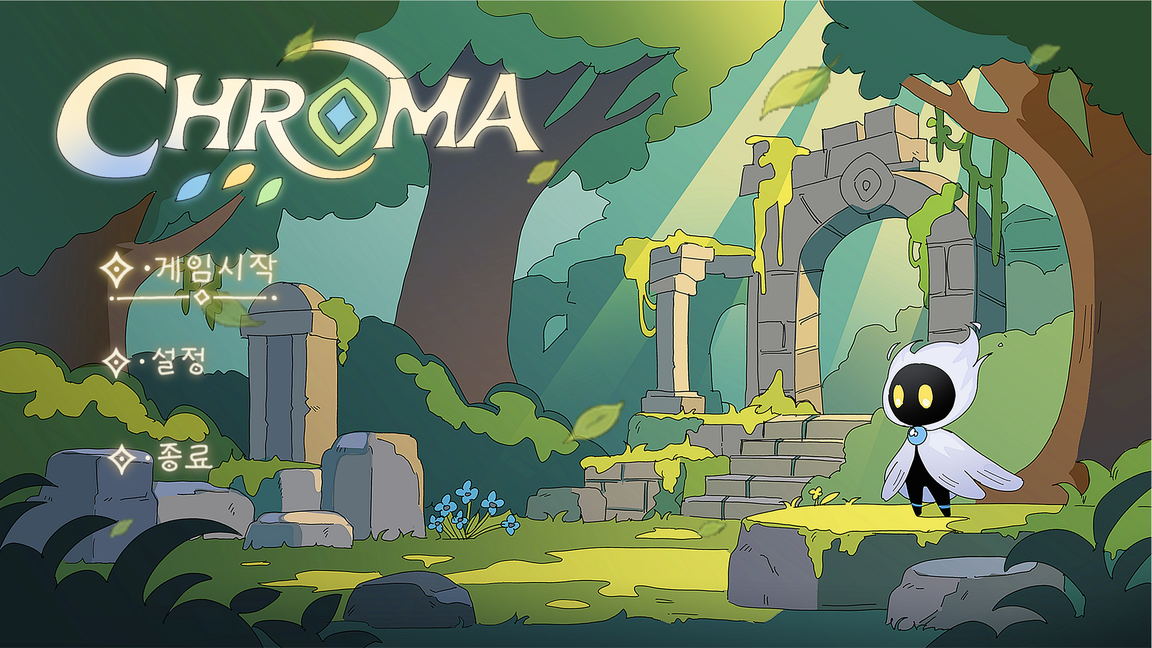
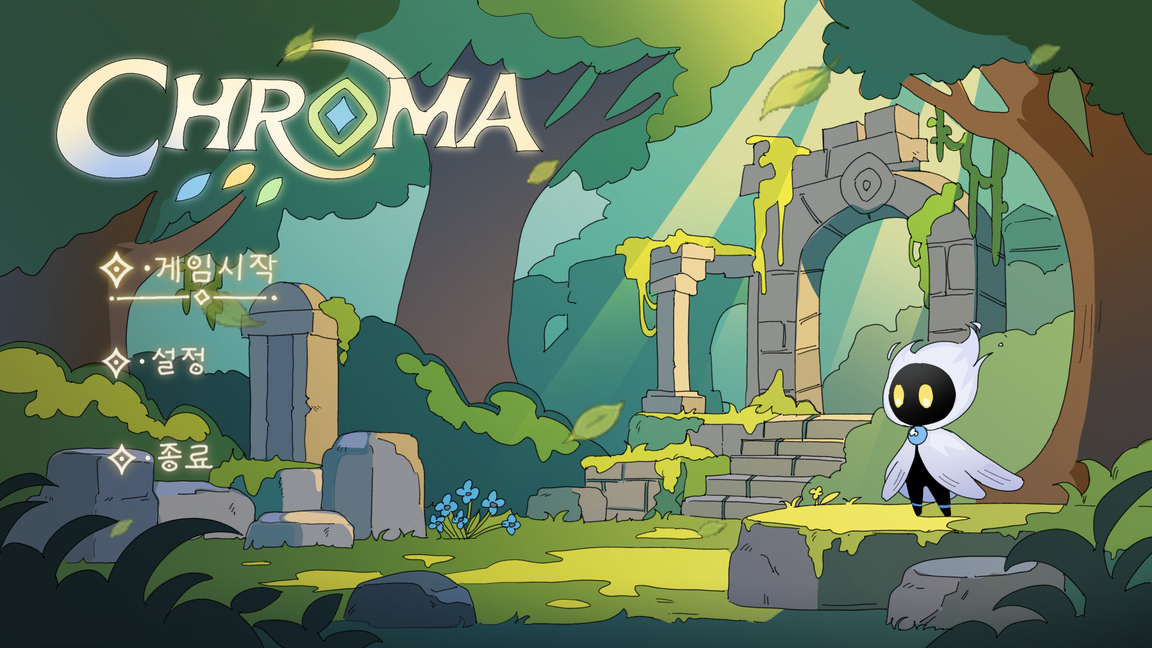
타이틀 나뭇잎 고해상도 추출과 가장자리 필터 및 프레임 여백 개선

diff --git a/tools/prepare_leaves.py b/tools/prepare_leaves.py
@@ -1,27 +1,38 @@
-"""Convert the supplied transparent leaf GIF to a title sprite sheet."""
+"""Antialias the supplied GIF into a padded, high-resolution title atlas."""
 import json
 from pathlib import Path
 from PIL import Image
 
 ROOT = Path(__file__).resolve().parent.parent
+FRAME_SIZE = (2304, 1296)
+COLUMNS = 3
+PADDING = 4
 
 
 def main():
     source = ROOT / 'image/ui/작은 잎사귀의 산들바람 애니메이션.gif'
     gif = Image.open(source)
-    width, height = gif.size
-    sheet = Image.new('RGBA', (width * gif.n_frames, height))
+    source_width, source_height = gif.size
+    width, height = FRAME_SIZE
+    stride_x, stride_y = width + 2 * PADDING, height + 2 * PADDING
+    rows = (gif.n_frames + COLUMNS - 1) // COLUMNS
+    sheet = Image.new('RGBA', (stride_x * COLUMNS, stride_y * rows))
     durations = []
     for index in range(gif.n_frames):
         gif.seek(index)
-        frame = gif.convert('RGBA')
-        sheet.paste(frame, (index * width, 0))
+        # Pillow resamples RGBA in premultiplied-alpha space, avoiding colored
+        # fringes at transparent leaf edges. Keep the original shapes and timing.
+        frame = gif.convert('RGBA').resize(FRAME_SIZE, Image.Resampling.LANCZOS)
+        column, row = index % COLUMNS, index // COLUMNS
+        sheet.paste(frame, (column * stride_x + PADDING, row * stride_y + PADDING))
         durations.append(gif.info.get('duration', 160) / 1000)
     folder = ROOT / 'image/background/leaves'
     folder.mkdir(exist_ok=True)
     sheet.save(folder / 'leaves.png')
     (folder / 'leaves.json').write_text(json.dumps(
-        {'width': width, 'height': height, 'durations': durations}), encoding='utf-8')
+        {'width': width, 'height': height, 'columns': COLUMNS, 'padding': PADDING,
+         'source_width': source_width, 'source_height': source_height,
+         'durations': durations}), encoding='utf-8')
 
 
 if __name__ == '__main__':

diff --git a/tests/test_leaves.py b/tests/test_leaves.py
@@ -1,10 +1,35 @@
 import unittest
+from pathlib import Path
 from unittest.mock import Mock, patch
+from PIL import Image
 
 from code.leaves import TitleLeaves
 
 
 class TitleLeavesTests(unittest.TestCase):
+    def test_all_nine_high_resolution_frames_stay_inside_the_padded_atlas(self):
+        folder = Path(__file__).resolve().parent.parent / 'image/background/leaves'
+        with Image.open(folder / 'leaves.png') as atlas:
+            width, height = atlas.size
+            with patch('pico2d.load_image', return_value=Mock(w=width, h=height)):
+                leaves = TitleLeaves()
+            self.assertEqual((leaves.frames['width'], leaves.frames['height']), (2304, 1296))
+            rectangles = []
+            for duration in leaves.frames['durations']:
+                leaves.draw()
+                x, y, w, h = leaves.sheet.clip_draw.call_args.args[:4]
+                self.assertGreaterEqual(x, 4)
+                self.assertGreaterEqual(y, 4)
+                self.assertLessEqual(x + w + 4, width)
+                self.assertLessEqual(y + h + 4, height)
+                rectangles.append((x, y, w, h))
+                leaves.update(duration)
+            self.assertEqual(len(set(rectangles)), 9)
+            self.assertEqual(leaves.frame, 0)
+            alpha = atlas.crop((4, 4, 2308, 1300)).getchannel('A')
+            self.assertTrue(any(0 < value < 255 for count, value in alpha.getcolors(256)))
+            self.assertEqual(atlas.crop((0, 0, width, 4)).getchannel('A').getextrema(), (0, 0))
+
     def test_every_supplied_frame_repeats_independent_of_frame_rate(self):
         with patch('pico2d.load_image', return_value=Mock()):
             leaves = TitleLeaves()

diff --git a/code/leaves.py b/code/leaves.py
@@ -1,13 +1,13 @@
 """A subtle title layer using all frames of the supplied leaf animation."""
 import json
-import pico2d
 from .settings import IMAGE_ROOT, SCREEN_WIDTH, SCREEN_HEIGHT
+from .display import load_smooth_image
 
 
 class TitleLeaves:
     def __init__(self):
         folder = IMAGE_ROOT / 'background/leaves'
-        self.sheet = pico2d.load_image(str(folder / 'leaves.png'))
+        self.sheet = load_smooth_image(str(folder / 'leaves.png'))
         self.frames = json.loads((folder / 'leaves.json').read_text(encoding='utf-8'))
         self.time = 0.0
 
@@ -26,5 +26,9 @@ class TitleLeaves:
     def draw(self):
         self.sheet.opacify(.65)
         width, height = self.frames['width'], self.frames['height']
-        self.sheet.clip_draw(self.frame * width, 0, width, height,
+        padding = self.frames['padding']
+        column, row = self.frame % self.frames['columns'], self.frame // self.frames['columns']
+        x = column * (width + 2 * padding) + padding
+        y = self.sheet.h - row * (height + 2 * padding) - padding - height
+        self.sheet.clip_draw(x, y, width, height,
                              SCREEN_WIDTH / 2, SCREEN_HEIGHT / 2, SCREEN_WIDTH, SCREEN_HEIGHT)

diff --git a/code/display.py b/code/display.py
@@ -28,3 +28,12 @@ def load_pixel_image(path):
     if isinstance(image, pico2d.Image):
         sdl.SDL_SetTextureScaleMode(image.texture, sdl.SDL_ScaleModeNearest)
     return image
+
+
+def load_smooth_image(path):
+    """Use linear sampling for antialiased illustration and animation textures."""
+    import pico2d
+    image = pico2d.load_image(path)
+    if isinstance(image, pico2d.Image):
+        sdl.SDL_SetTextureScaleMode(image.texture, sdl.SDL_ScaleModeLinear)
+    return image

diff --git a/README.md b/README.md
@@ -75,6 +75,8 @@ BGM 슬라이더는 현재 재생 중인 배경음악에, 효과음 슬라이더
 
 발소리·점프·착지·색 상호작용 효과음은 재생하지 않습니다. 기존 BGM과 UI 클릭 소리만 사용합니다.
 `작은 잎사귀의 산들바람 애니메이션.gif`의 9프레임을 원래 색과 투명도를 유지해 타이틀 배경 위에 반복 재생합니다.
+나뭇잎은 2304×1296 크기로 Lanczos 보간해 가장자리를 부드럽게 만들고, 3×3 시트의 프레임마다 투명 여백을 둡니다.
+전체화면에서는 선형 필터를 명시적으로 적용합니다. 원본 GIF의 모양·색·9프레임·재생 간격은 유지합니다.
 게임 맵에는 나뭇잎을 표시하지 않습니다.
 
 ## 진행 순서
